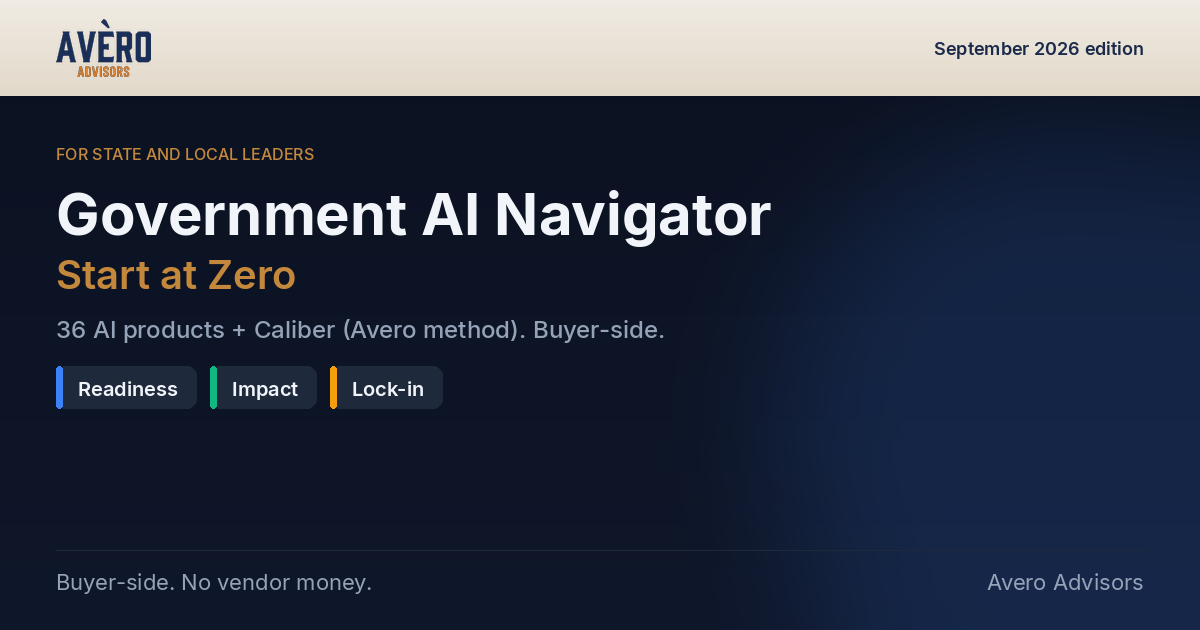
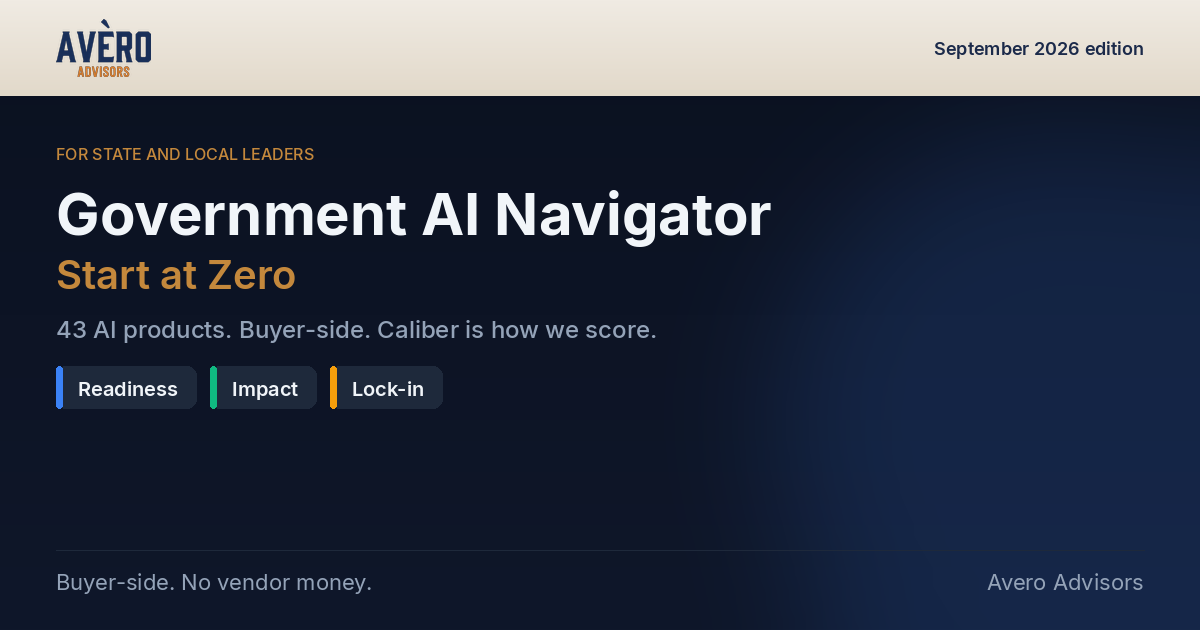
Apply September 2026 product brief: split OpenAI, move Caliber off scatter
Relabel Gemini for Government, dual-label ChatGPT Enterprise (FedRAMP
Moderate SaaS) vs ChatGPT Gov (Azure-hosted High path), raise Darwin
readiness, and refresh Copilot/Bedrock/Claude/Workday/OpenGov/Accela/
Granicus/Esri/Oracle/Tyler/Salesforce+Agentforce notes from public pages.
Add UiPath, Appian Government Cloud, Zoom AI Companion, Palantir AIP,
CodeComply, and Laserfiche AI. Caliber is a methodology rail only — not
a vendor dot. 43 products. September 2026 edition and OG tags updated.

Changed region(s): [[0.185, 0.5127, 0.555, 0.5429], [0.0308, 0.5127, 0.0925, 0.5429], [0.1233, 0.5127, 0.1542, 0.5429]]

diff --git a/index.html b/index.html
@@ -4,10 +4,10 @@
   <meta charset="UTF-8" />
   <meta name="viewport" content="width=device-width, initial-scale=1.0" />
   <title>"Start at Zero" Government AI Navigator | Avero Advisors</title>
-  <meta name="description" content="Independent map of 36 AI products plus Caliber, Avero's buyer-side method, for state and local leaders — readiness, impact, and lock-in. Buyer-side. No vendor money." />
+  <meta name="description" content="Independent map of 43 AI products for state and local leaders — readiness, impact, and lock-in. Buyer-side. No vendor money. Caliber is Avero methodology, not a product on the map." />
   <link rel="canonical" href="https://govai.averoadvisors.com/" />
   <meta property="og:title" content='"Start at Zero" Government AI Navigator | Avero Advisors' />
-  <meta property="og:description" content="Independent map of 36 AI products plus Caliber, Avero's buyer-side method, for state and local leaders — readiness, impact, and lock-in. Buyer-side. No vendor money." />
+  <meta property="og:description" content="Independent map of 43 AI products for state and local leaders — readiness, impact, and lock-in. Buyer-side. No vendor money. Caliber is Avero methodology, not a product on the map." />
   <meta property="og:type" content="website" />
   <meta property="og:url" content="https://govai.averoadvisors.com/" />
   <meta property="og:site_name" content="Government AI Navigator" />
@@ -16,12 +16,12 @@
   <meta property="og:image:type" content="image/png" />
   <meta property="og:image:width" content="1200" />
   <meta property="og:image:height" content="630" />
-  <meta property="og:image:alt" content="Government AI Navigator — Start at Zero. Independent map of 36 AI products plus Caliber for state and local leaders." />
+  <meta property="og:image:alt" content="Government AI Navigator — Start at Zero. Independent map of 43 AI products for state and local leaders." />
   <meta name="twitter:card" content="summary_large_image" />
   <meta name="twitter:title" content='"Start at Zero" Government AI Navigator | Avero Advisors' />
-  <meta name="twitter:description" content="Independent map of 36 AI products plus Caliber, Avero's buyer-side method, for state and local leaders — readiness, impact, and lock-in. Buyer-side. No vendor money." />
+  <meta name="twitter:description" content="Independent map of 43 AI products for state and local leaders — readiness, impact, and lock-in. Buyer-side. No vendor money. Caliber is Avero methodology, not a product on the map." />
   <meta name="twitter:image" content="https://govai.averoadvisors.com/assets/og-image.png" />
-  <meta name="twitter:image:alt" content="Government AI Navigator — Start at Zero. Independent map of 36 AI products plus Caliber for state and local leaders." />
+  <meta name="twitter:image:alt" content="Government AI Navigator — Start at Zero. Independent map of 43 AI products for state and local leaders." />
   <link rel="preconnect" href="https://fonts.googleapis.com" />
   <link href="https://fonts.googleapis.com/css2?family=DM+Sans:wght@400;500;600;700;800;900&display=swap" rel="stylesheet" />
   <script crossorigin src="https://unpkg.com/react@18/umd/react.production.min.js"></script>
@@ -242,8 +242,22 @@
     .footer a:hover { color: var(--gold-soft); }
     .gold-link { color: var(--gold-soft); font-weight: 600; }
     .empty { font-size: 13px; color: var(--faint); padding: 12px; }
+    .caliber-rail {
+      margin: 0 24px 16px;
+      padding: 16px 18px;
+      border-radius: 12px;
+      border: 1px solid rgba(196,136,60,0.45);
+      background: linear-gradient(135deg, rgba(196,136,60,0.14), rgba(15,23,42,0.9));
+    }
+    .caliber-rail .kicker-sm {
+      font-size: 11px; font-weight: 800; letter-spacing: 0.08em;
+      text-transform: uppercase; color: var(--gold-soft); margin-bottom: 6px;
+    }
+    .caliber-rail h2 { font-size: 17px; font-weight: 800; color: #F8FAFC; margin: 0 0 6px; }
+    .caliber-rail p { font-size: 14px; color: #CBD5E1; line-height: 1.55; margin: 0; }
     @media (max-width: 720px) {
-      .cream-bar, .lede-bar, .whats-new, .tabs, .toolbar, .layout, .download, .footer { padding-left: 16px; padding-right: 16px; }
+      .cream-bar, .lede-bar, .whats-new, .tabs, .toolbar, .layout, .download, .footer, .caliber-rail { padding-left: 16px; padding-right: 16px; }
+      .caliber-rail { margin-left: 16px; margin-right: 16px; }
       .tab { font-size: 13px; padding: 10px 12px; }
       .dir { max-height: none; }
       .brand-rule { display: none; }
@@ -257,8 +271,8 @@
   <script type="text/babel">
     const { useState, useEffect, useMemo } = React;
     const EDITION = "September 2026";
-    const PRODUCT_COUNT = 36;
-    const TOTAL_MAPPED = 37;
+    const PRODUCT_COUNT = 43;
+    const TOTAL_MAPPED = 43;
 
     const LENSES = [
       {
@@ -311,32 +325,39 @@
     const TOOLS = [
       { name: "Microsoft Copilot", category: "GenAI/Copilot",
         notes: {
-          readiness: "M365 Copilot in GCC and GCC High. Microsoft states GCC High Copilot is built to FedRAMP High-oriented controls. Dominant SLED M365 install base.",
-          impact: "Lands inside existing M365; real value still depends on data hygiene and change management.",
+          readiness: "M365 Copilot is GA in GCC, GCC High, and DoD. Microsoft documents Researcher/Analyst agents plus Agent Builder in government clouds; Copilot Studio publishing to Teams/M365 is listed for GCC. GCC High Copilot is built to FedRAMP High-oriented controls. Dominant SLED M365 install base.",
+          impact: "Lands inside existing M365. Agents raise the ceiling; value still depends on data hygiene, grounding policy, and change management.",
           independence: "Deep M365 lock-in. Extremely mature in government productivity stacks.",
         },
-        pos: { readiness: [84, 86], impact: [34, 70], independence: [22, 88] } },
-      { name: "Google Gemini", category: "GenAI/Copilot",
+        pos: { readiness: [86, 88], impact: [36, 74], independence: [20, 90] } },
+      { name: "Gemini for Government", category: "GenAI/Copilot",
         notes: {
-          readiness: "Gemini for Government is listed FedRAMP Certified on the FedRAMP AI page (early 2026). Workspace path for agencies already on Google.",
+          readiness: "Relabeled from Google Gemini. Gemini for Government is listed FedRAMP Certified on the FedRAMP AI page (early 2026). Workspace path for agencies already on Google.",
           impact: "Useful where Workspace is the system of work; training and policy work still required.",
           independence: "Workspace dependency. Growing public-sector presence, still behind Microsoft in most SLED offices.",
         },
         pos: { readiness: [80, 80], impact: [38, 66], independence: [34, 72] } },
       { name: "Anthropic Claude", category: "GenAI/LLM",
         notes: {
-          readiness: "Claude for Government is Anthropic’s FedRAMP High standalone product. Anthropic states most state/local uses fit Claude Enterprise; C4G is the High path. Also on Bedrock GovCloud and Vertex Assured Workloads.",
+          readiness: "Claude for Government (C4G) is Anthropic’s FedRAMP High standalone product. Anthropic states most state/local uses fit Claude Enterprise; C4G is the High path. Also on Bedrock GovCloud and Vertex Assured Workloads.",
           impact: "API-first or standalone chat. Easier than an ERP; still needs use-case design and records policy.",
           independence: "Multicloud options reduce single-cloud lock-in versus Azure-only stacks. SLED references still catching up to federal.",
         },
         pos: { readiness: [78, 80], impact: [28, 48], independence: [74, 64] } },
-      { name: "OpenAI ChatGPT", category: "GenAI/LLM",
+      { name: "ChatGPT Enterprise (FedRAMP Moderate)", category: "GenAI/LLM",
         notes: {
-          readiness: "ChatGPT Enterprise and API Platform: FedRAMP Certified 20x Moderate as of 9 Jan 2026 (marketplace FR2533155773). No longer Azure-Government-only. Carahsoft is a public-sector reseller. SLED still confirming local vehicles.",
-          impact: "Fast for knowledge work and drafting. Mission systems still sit elsewhere.",
-          independence: "Less Azure-only than the August edition implied. Consumer-grade confusion remains a governance risk.",
+          readiness: "OpenAI-managed SaaS. ChatGPT Enterprise and API Platform: FedRAMP Certified 20x Moderate as of 9 Jan 2026 (FR2533155773). This is not ChatGPT Gov and is not FedRAMP High. Carahsoft is a public-sector reseller. SLED still confirming local vehicles.",
+          impact: "Fastest OpenAI path for knowledge work and drafting. Feature set is a FedRAMP-restricted slice of commercial Enterprise.",
+          independence: "SaaS lock to OpenAI’s gov endpoint (gov.api.openai.com for API). Existing commercial Enterprise workspaces do not convert in place.",
         },
-        pos: { readiness: [70, 80], impact: [24, 42], independence: [52, 62] } },
+        pos: { readiness: [72, 80], impact: [22, 42], independence: [54, 58] } },
+      { name: "ChatGPT Gov", category: "GenAI/LLM",
+        notes: {
+          readiness: "Customer-hosted ChatGPT frontend on the agency’s Azure commercial or Azure Government + Azure OpenAI. OpenAI’s public page: this is how agencies pursue IL5 / CJIS / FedRAMP High on their own ATO — it is not OpenAI-managed High SaaS. The August “High only via Azure” line described this path, not the Moderate SaaS.",
+          impact: "Same Enterprise-class chat, more IT and authorization work. Complexity is the agency cloud, not the prompt window.",
+          independence: "Azure gravity. You own the container and the ATO; you also own the ops.",
+        },
+        pos: { readiness: [46, 80], impact: [58, 50], independence: [36, 48] } },
       { name: "Perplexity Enterprise for Government", category: "GenAI/LLM", added: true,
         notes: {
           readiness: "FedRAMP Certified 20x Class B (Low) as of 1 Feb 2026 (FR2604643715). GSA MAS / OneGov pricing is federal-first. SLED path exists via MAS piggyback in some states; not a SLED-native product.",
@@ -346,11 +367,11 @@
         pos: { readiness: [58, 56], impact: [20, 44], independence: [58, 36] } },
       { name: "AWS Bedrock", category: "AI Platform",
         notes: {
-          readiness: "GovCloud / FedRAMP High path for several foundation models. Common SLED pattern: build on Bedrock rather than buy a chatbot SKU.",
+          readiness: "GovCloud / FedRAMP High path for several foundation models (Claude, others as listed in AWS gov docs). Common SLED pattern: multi-model access rather than a single chatbot SKU. Confirm each model’s authorization boundary — Bedrock is not a blanket High for every model.",
           impact: "Flexible, developer-heavy. Impact tracks whatever the agency actually ships.",
-          independence: "Multi-model, but AWS gravity is real. Exit means rewriting glue.",
+          independence: "Multi-model choice is the point; AWS gravity is still real. Exit means rewriting glue.",
         },
-        pos: { readiness: [80, 72], impact: [56, 60], independence: [54, 76] } },
+        pos: { readiness: [80, 74], impact: [56, 62], independence: [56, 76] } },
       { name: "ServiceNow Gov", category: "Workflow/ITSM",
         notes: {
           readiness: "Long federal presence; OneGov GSA commercial terms. State/local via existing Now Platform customers and partners.",
@@ -360,25 +381,25 @@
         pos: { readiness: [80, 76], impact: [62, 76], independence: [28, 82] } },
       { name: "Salesforce GovCloud", category: "CRM/Platform",
         notes: {
-          readiness: "GovCloud plus Missionforce positioning. Strongest where CRM is already Salesforce.",
-          impact: "Citizen case management can move the needle; implementations are not light.",
-          independence: "CRM ecosystem lock-in. Long government history.",
+          readiness: "GovCloud plus Missionforce. Agentforce (Agentforce 360 / Agentforce Public Sector) is the AI-agent layer: Salesforce announced IL5 authorization on Missionforce National Security (5 Aug 2026) — that is a national-security path, not a SLED FedRAMP claim. Strongest where CRM is already Salesforce.",
+          impact: "Citizen case management plus agents. Implementations are not light; Agentforce value is workflow, not a chat widget.",
+          independence: "CRM + agent ecosystem lock-in. Long government history.",
         },
-        pos: { readiness: [76, 72], impact: [66, 72], independence: [26, 78] } },
+        pos: { readiness: [78, 76], impact: [68, 76], independence: [24, 80] } },
       { name: "Tyler Technologies", category: "Gov ERP",
         notes: {
-          readiness: "Pure-play SLED vendor. Public materials cite ~44K installations / 13K locations. AI is sold as governed public-sector features — no FedRAMP claim found on Tyler’s AI page.",
-          impact: "ERP-class: transforms finance/permitting/public safety modules you already run. Multi-year.",
+          readiness: "Pure-play SLED vendor. Public materials cite ~44K installations / 13K locations. 2026 MyGov acquisition extends permitting/community-development into smaller agencies. AI is sold as governed public-sector features — no FedRAMP claim found on Tyler’s AI page.",
+          impact: "ERP-class: transforms finance/permitting/public safety modules you already run. MyGov is a faster add for small jurisdictions; core Tyler remains multi-year.",
           independence: "Deepest local-gov install base. Proprietary suite; switching costs are the story.",
         },
-        pos: { readiness: [92, 58], impact: [82, 80], independence: [18, 90] } },
+        pos: { readiness: [92, 60], impact: [82, 80], independence: [18, 90] } },
       { name: "Oracle Cloud Gov", category: "ERP/Cloud",
         notes: {
-          readiness: "Sovereign / government cloud with FedRAMP and IL5 paths on Oracle’s public cloud pages. Every-state footprint on the ERP side.",
-          impact: "Cloud migration plus process redesign. High ceiling, high pain.",
+          readiness: "Sovereign / government cloud with FedRAMP and IL5 paths on Oracle’s public cloud pages. Fusion Cloud public-sector AI agents are marketed on that stack — confirm the agent SKU is inside the authorized boundary before treating it as FedRAMP.",
+          impact: "Cloud migration plus process redesign. Agents sit on top of Fusion data; the heavy lift is still the ERP.",
           independence: "Oracle ecosystem. Hard to leave once finance is on it.",
         },
-        pos: { readiness: [76, 72], impact: [88, 78], independence: [28, 84] } },
+        pos: { readiness: [76, 74], impact: [88, 80], independence: [28, 84] } },
       { name: "SAP (Joule AI)", category: "ERP/AI",
         notes: {
           readiness: "Joule sits on S/4HANA Cloud. Strong enterprise; SLED-specific sales motion still thinner than Tyler/CGI.",
@@ -388,11 +409,11 @@
         pos: { readiness: [64, 62], impact: [86, 72], independence: [30, 80] } },
       { name: "Workday AI", category: "HCM/Finance",
         notes: {
-          readiness: "Common in large state HCM. AI features ride the existing Workday tenant — do not treat that as a FedRAMP shortcut without checking the SKU.",
+          readiness: "Workday Government / large-state HCM is the usual SLED path. AI features ride the existing tenant — do not treat that as a FedRAMP shortcut without checking the SKU. Workday also ships a Copilot agent for HR/finance in commercial M365; confirm government-cloud availability before buying that pairing.",
           impact: "Workforce planning and HR ops. Real only with clean HCM data.",
           independence: "Moderate lock-in. Strong in large-government HCM.",
         },
-        pos: { readiness: [72, 66], impact: [76, 70], independence: [34, 72] } },
+        pos: { readiness: [74, 66], impact: [76, 70], independence: [34, 72] } },
       { name: "CGI Advantage", category: "Gov ERP",
         notes: {
           readiness: "Federal/state ERP with a long public-sector bench. AI is integration, not a separate SLED copilot brand.",
@@ -423,18 +444,18 @@
         pos: { readiness: [84, 66], impact: [70, 70], independence: [32, 74] } },
       { name: "Esri", category: "GIS/Analytics",
         notes: {
-          readiness: "Default SLED GIS. FedRAMP-authorized ArcGIS Online / enterprise cloud offerings are on Esri’s public compliance pages. AI/ML sits on that stack.",
-          impact: "Transformative when spatial is the work. Deep integration tax.",
+          readiness: "Default SLED GIS. FedRAMP-authorized ArcGIS Online / enterprise cloud offerings are on Esri’s public compliance pages. Esri markets AI assistants and AI/ML on that stack — treat assistants as features of the authorized GIS, not a separate FedRAMP product unless Esri lists one.",
+          impact: "Transformative when spatial is the work. Assistants help analysts; the platform is still GIS.",
           independence: "Deepest GIS lock-in in government. Plan the exit before you extend it.",
         },
-        pos: { readiness: [90, 78], impact: [80, 82], independence: [20, 92] } },
+        pos: { readiness: [90, 80], impact: [80, 82], independence: [20, 92] } },
       { name: "Granicus GXA", category: "Citizen Engagement",
         notes: {
-          readiness: "Purpose-built gov civic experience. Long GovTech 100 run; thousands of SLED sites.",
-          impact: "Direct resident channels if you already run Granicus CMS/meetings.",
+          readiness: "Purpose-built gov civic experience and AI digital agents (GXA). Long GovTech 100 run; thousands of SLED sites.",
+          impact: "Direct resident channels if you already run Granicus CMS/meetings. Agents help 311/content; they do not replace the civic suite.",
           independence: "Gov-specific platform. Established, not easy to unwind.",
         },
-        pos: { readiness: [86, 46], impact: [30, 60], independence: [38, 76] } },
+        pos: { readiness: [86, 48], impact: [30, 62], independence: [38, 76] } },
       { name: "Citibot", category: "Citizen Engagement",
         notes: {
           readiness: "Gov-only chatbot, SMS/web, Carahsoft distribution. Easy cooperative buy.",
@@ -479,11 +500,11 @@
         pos: { readiness: [52, 52], impact: [50, 54], independence: [58, 50] } },
       { name: "Darwin AI", category: "Gov-native AI",
         notes: {
-          readiness: "AI governance/monitoring. GovTech 100 new 2026. Apr 2026 Carahsoft: NASPO, TIPS, OMNIA vehicles in vendor announcement.",
+          readiness: "AI governance/monitoring. GovTech 100 new 2026. Apr 2026 Carahsoft announcement adds NASPO, TIPS, and OMNIA vehicles — Q1 readiness raised this edition. Still not a FedRAMP claim.",
           impact: "Oversight layer. Value is policy and inventory, not resident services.",
           independence: "Positioned as model-agnostic. Still early in SLED.",
         },
-        pos: { readiness: [60, 42], impact: [32, 50], independence: [70, 36] } },
+        pos: { readiness: [74, 44], impact: [32, 50], independence: [70, 38] } },
       { name: "Polimorphic", category: "Gov-native AI",
         notes: {
           readiness: "Front desk, VoiceAI, CRM. Vendor cites 200+ departments / 36M residents.",
@@ -561,13 +582,48 @@
           independence: "Banner/Colleague/Ellucian platform lock-in is the higher-ed equivalent of Tyler in cities.",
         },
         pos: { readiness: [86, 72], impact: [82, 80], independence: [20, 88] } },
-      { name: "Caliber", category: "Avero method", kind: "method", added: true,
+      { name: "UiPath Automation Cloud Public Sector", category: "RPA/Automation", added: true,
         notes: {
-          readiness: "Not a SaaS license. Avero’s engagement operating system for buyer-side ERP/advisory work. Public site: StateRAMP-certified Azure Government, 1,400+ government requirements, 25 modules. Agencies get Caliber only by engaging Avero — there is no SKU on a cooperative contract.",
-          impact: "Changes the quality of discovery, scoring, and implementation health. It does not replace an ERP, copilot, or 311 bot. Humans still decide; Caliber drafts and traces.",
-          independence: "Work product from an engagement belongs to the agency. No product lock-in because it is not sold. Beta: Avero says it is not shrink-wrapped software.",
+          readiness: "FedRAMP Certified Moderate (Class C) as of 20 Mar 2024 (FR2132958724). UiPath docs: public-sector SaaS with FIPS 140-2, U.S.-person ops. April 2026 public-sector release notes add GenAI Activities via Integration Service. Some Insights features remain outside the authorization until review completes.",
+          impact: "Back-office automation at scale. Impact is process redesign, not a chatbot. GenAI activities sit on existing bots.",
+          independence: "Platform lock-in once bots and orchestrations live here. Mature RPA market with alternatives.",
         },
-        pos: { readiness: [30, 74], impact: [42, 68], independence: [90, 38] } },
+        pos: { readiness: [80, 64], impact: [60, 64], independence: [40, 72] } },
+      { name: "Appian Government Cloud", category: "Low-code", added: true,
+        notes: {
+          readiness: "Appian Government Cloud — High: FedRAMP Certified Class D (High) as of 3 Apr 2025 (FR2318051429). Appian also states a 3-year DoD IL5 PA. AI skills inherit the GovCloud boundary; model pick is constrained on GovCloud inference profiles.",
+          impact: "Low-code process + AI on casework. High ceiling if you build on Appian; not a point copilot.",
+          independence: "Appian platform lock-in. Stronger federal than small-city SLED.",
+        },
+        pos: { readiness: [78, 76], impact: [74, 74], independence: [30, 70] } },
+      { name: "Zoom AI Companion", category: "Collaboration", added: true,
+        notes: {
+          readiness: "Verified gov path: Zoom announced FedRAMP JAB Moderate authorization for AI Companion on Zoom for Government (16 Sep 2024). Zoom for Government also cites FedRAMP Moderate, DoD IL4, and StateRAMP on the platform. For paid Zoom Gov accounts, including state/local. Commercial AI Companion is a different stack — buy the Gov SKU.",
+          impact: "Meeting summaries, chat draft, whiteboard assist. Easy add where Zoom Gov is already the meeting system. Narrow mission impact.",
+          independence: "Zoom Gov ecosystem. Mature in SLED meetings; AI is an add-on, not a system of record.",
+        },
+        pos: { readiness: [84, 38], impact: [16, 40], independence: [36, 80] } },
+      { name: "Palantir AIP", category: "AI Platform", added: true,
+        notes: {
+          readiness: "Palantir stated Dec 2024 that FedRAMP High for Palantir Federal Cloud Service covers the product suite including AIP. Federal-first. SLED references exist but are thinner than Tyler/Esri — treat as high-capability, procurement-heavy for most cities.",
+          impact: "Ontology + operators on messy operational data. High ceiling, high integration and change-management cost.",
+          independence: "Deep Palantir lock-in (Foundry/AIP/Gotham). Plan the exit before the ontology becomes the city.",
+        },
+        pos: { readiness: [52, 86], impact: [84, 80], independence: [18, 58] } },
+      { name: "CodeComply", category: "Gov Platform", added: true,
+        notes: {
+          readiness: "AI plan review / pre-check for local permitting. Official plan-review layer for CivicPlus; also sits beside Accela/Tyler/OpenGov per vendor materials. TXShare cooperative endorsement. No FedRAMP claim used here.",
+          impact: "Reviewer cycle time on building plans. Narrow by design; does not replace the permitting system of record.",
+          independence: "Layer on CivicPlus or another CD stack. Easier to unwind than swapping Accela/Tyler.",
+        },
+        pos: { readiness: [70, 36], impact: [26, 54], independence: [62, 34] } },
+      { name: "Laserfiche AI", category: "Records/ECM", added: true,
+        notes: {
+          readiness: "Conditional add: deep SLED records/ECM install. Laserfiche AI (including AI Agents, Apr 2026) uses OpenAI models per Laserfiche trust pages. Enterprise Security (6 Aug 2026) is on the GovRAMP Progressing list — not GovRAMP Ready/Authorized as of this edition. Do not treat progressing as authorized.",
+          impact: "Records search, extraction, and governed automation. Incremental unless records are the bottleneck.",
+          independence: "Repository lock-in is the ECM story. AI rides the existing Laserfiche estate.",
+        },
+        pos: { readiness: [62, 42], impact: [40, 48], independence: [28, 72] } },
     ];
 
     const CATEGORY_COLORS = {
@@ -577,7 +633,8 @@
       "Citizen Engagement": "#10B981", "Gov Platform": "#22D3EE",
       "Public Safety AI": "#EF4444", "HHS AI": "#F472B6", "GIS/Analytics": "#A3E635",
       "Gov-native AI": "#A78BFA", "Procurement AI": "#38BDF8", "Higher-ed AI": "#F472B6",
-      "Avero method": "#C4883C",
+      "RPA/Automation": "#EC4899", "Low-code": "#818CF8", "Collaboration": "#2DD4BF",
+      "Records/ECM": "#94A3B8",
     };
 
     const NEW_THIS_EDITION = TOOLS.filter(t => t.added).map(t => t.name);
@@ -639,7 +696,7 @@
     function GovernmentAINavigator() {
       const [lensIdx, setLensIdx] = useState(0);
       const [hovered, setHovered] = useState(null);
-      const [selected, setSelected] = useState("Caliber");
+      const [selected, setSelected] = useState(null);
       const [query, setQuery] = useState("");
       const [catFilter, setCatFilter] = useState("All");
       const [formSubmitted, setFormSubmitted] = useState(false);
@@ -717,17 +774,24 @@
 
           <div className="lede-bar">
             <p className="lede">
-              Three lenses every government leader needs before investing in AI. Independent map of <strong>{PRODUCT_COUNT} products</strong> plus <strong>Caliber</strong> (Avero’s buyer-side engagement method — not a vendor license). Readiness, impact, and lock-in. Buyer-side. No vendor money. {EDITION}.
+              Three lenses every government leader needs before investing in AI. Independent map of <strong>{PRODUCT_COUNT} products</strong> — readiness, impact, and lock-in. Buyer-side. No vendor money. {EDITION}. Caliber is Avero’s scoring rail, not a dot on the scatter.
             </p>
             <a className="report-btn" href="#report-download">Get the {EDITION} report ↓</a>
           </div>
 
+          <aside className="caliber-rail" aria-label="How Avero scores engagements">
+            <div className="kicker-sm">How we score engagements</div>
+            <h2>Caliber — Avero methodology, not a vendor product</h2>
+            <p>
+              Caliber is the buyer-side advisory rail Avero uses to run discovery, requirements, scorecards, and implementation health. <strong style={{ color: "#F8FAFC" }}>Beta. Not sold or licensed.</strong> There is no SKU and no cooperative contract. Agencies get the benefit by engaging Avero; work product belongs to the agency. It is not plotted on the product matrix so it cannot be mistaken for a paid placement.{" "}
+              <a className="gold-link" href="https://averocaliber.averoadvisors.com/" target="_blank" rel="noopener noreferrer">averocaliber.averoadvisors.com →</a>
+            </p>
+          </aside>
+
           <div className="whats-new">
             <span className="whats-new-label">New this edition</span>
             {NEW_THIS_EDITION.map((name) => (
-              <button key={name} className={"chip" + (name === "Caliber" ? " method" : "")} onClick={() => jumpTo(name)}>
-                {name}{name === "Caliber" ? " · method" : ""}
-              </button>
+              <button key={name} className="chip" onClick={() => jumpTo(name)}>{name}</button>
             ))}
           </div>
 
@@ -761,7 +825,7 @@
             <div className="chart-col">
               <div className="panel">
                 <h2>{lens.title}</h2>
-                <p className="axis-note"><strong>X:</strong> {lens.xDesc} · <strong>Y:</strong> {lens.yDesc}. Click a dot to pin it. Diamond = Caliber (not a product you license).</p>
+                <p className="axis-note"><strong>X:</strong> {lens.xDesc} · <strong>Y:</strong> {lens.yDesc}. Click a dot to pin a readout. Caliber is not on this scatter.</p>
                 <QuadrantChart
                   lens={lens}
                   tools={visible}
@@ -773,14 +837,6 @@
                 <p className="axis-note" style={{ margin: "8px 0 0" }}>
                   Showing {visible.length} of {TOTAL_MAPPED}. Positions are Avero’s independent {EDITION} read — verify every compliance claim on the vendor’s current public page before you buy.
                 </p>
-              </div>
-
-              <div className="callout gold" style={{ marginTop: 16 }}>
-                <div style={{ fontSize: 14, fontWeight: 800, color: "#E8B86D", marginBottom: 6 }}>Caliber is on this map on purpose — and it is not a paid placement.</div>
-                <div style={{ fontSize: 14, color: "#94A3B8", lineHeight: 1.55 }}>
-                  Caliber is how Avero runs buyer-side advisory work (discovery → requirements → scorecards → implementation health). It is <strong style={{ color: "#F1F5F9" }}>not sold as software</strong> and does not compete with Tyler, OpenGov, or Copilot. Agencies get the benefit by engaging Avero; work product belongs to the agency.{" "}
-                  <a className="gold-link" href="https://averocaliber.averoadvisors.com/" target="_blank" rel="noopener noreferrer">Read the public Caliber brief →</a>
-                </div>
               </div>
 
               <div className="callout">
@@ -851,7 +907,7 @@
               <div className="kicker">Free download</div>
               <h2>Get the full {EDITION} Government AI Navigator report</h2>
               <p style={{ fontSize: 15, color: "#94A3B8", lineHeight: 1.65, margin: "0 0 24px" }}>
-                Scoring notes, placement rationale, and procurement questions for all {PRODUCT_COUNT} products, plus an honest page on Caliber (Avero method, not a vendor SKU). PDF delivered after the form. {EDITION} edition.
+                Scoring notes, placement rationale, and procurement questions for all {PRODUCT_COUNT} products, plus how Avero uses Caliber as a methodology rail (not a vendor SKU). PDF delivered after the form. {EDITION} edition.
               </p>
               <div
                 className="hs-form-frame"
@@ -878,11 +934,11 @@
           </section>
 
           <footer className="footer">
-            <div>© 2026 Avèro Advisors. Independent analysis. Not affiliated with any vendor listed. Caliber is Avero methodology, not a paid product placement.</div>
+            <div>© 2026 Avèro Advisors. Independent analysis. Not affiliated with any vendor listed. Caliber is Avero methodology — not a product on the map.</div>
             <div style={{ display: "flex", gap: 14, flexWrap: "wrap", alignItems: "center" }}>
               <a href="https://avavero.substack.com" target="_blank" rel="noopener noreferrer">Start at Zero on Substack</a>
               <a href="https://startatzero.averoadvisors.com/" target="_blank" rel="noopener noreferrer">The book</a>
-              <span>Data as of {EDITION} · {PRODUCT_COUNT} products + Caliber</span>
+              <span>Data as of {EDITION} · {PRODUCT_COUNT} products</span>
             </div>
           </footer>
         </div>
